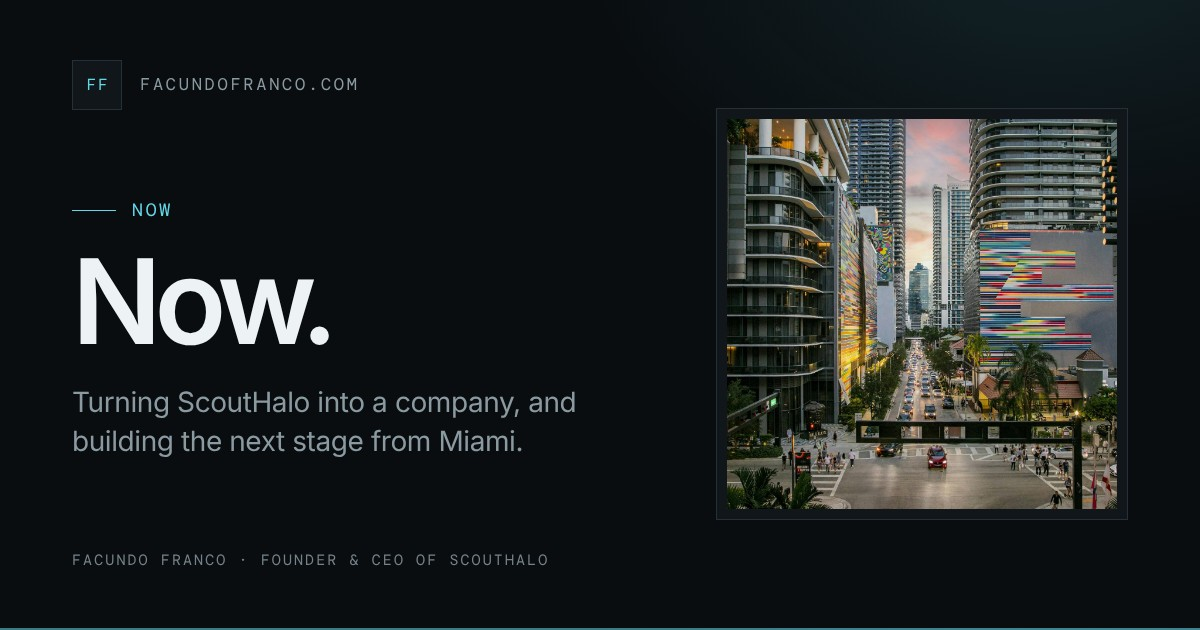
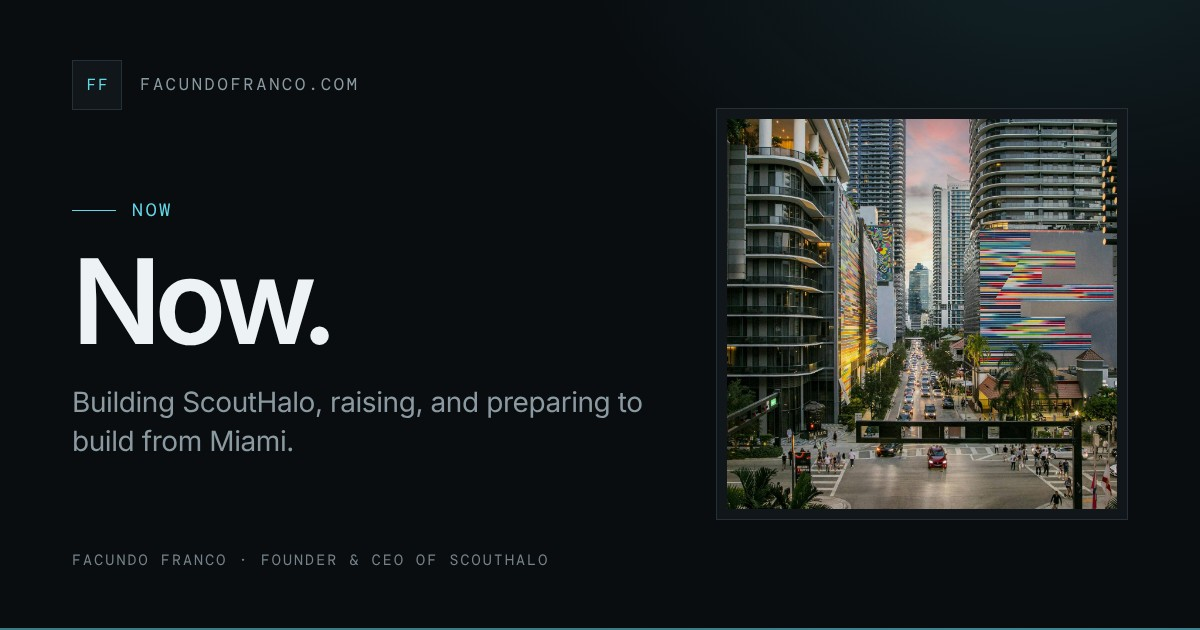
Final audit fixes: tablet timeline, chronology, wording, Now card
- Timeline: two rows of four from 721–1340px so all eight milestones
  are visible; one row above, vertical list on phones
- Miami stop reads as a plan; build period labelled Jun–Aug 2026
- Founder story ch03: rename (May) before the AI approach; ch01 no
  longer echoes ch02's title
- Homepage showcase no longer repeats the hero; About pull quote no
  longer repeats the paragraph before it
- Privacy describes the self-hosted video; Projects → Plans on /now
- Now social card and alt text regenerated
- Homepage sections numbered 01–05; showcase details top-aligned;
  shorter video caption; stacked coordinates; tablet hero sized to content

Claude-Session: https://claude.ai/code/session_01KTQ6Xqh9nfRwcYhg5ntsCz

Changed region(s): [[0.0617, 0.6032, 0.555, 0.7238]]

diff --git a/app/building-scouthalo/page.tsx b/app/building-scouthalo/page.tsx
@@ -61,7 +61,7 @@ const CHRONOLOGY = [
   { when: "Oct 2025", what: "The note", href: "#the-idea" },
   { when: "Mar 2026", what: "ScoutNYC built", href: "#the-first-version" },
   { when: "May 2026", what: "Rebranded ScoutHalo", href: "#all-in" },
-  { when: "Winter 2026", what: "All in", href: "#all-in" },
+  { when: "Jun–Aug 2026", what: "All in", href: "#all-in" },
   { when: "Sep 2026", what: "ScoutHalo, Inc.", href: "#incorporated" },
   { when: "Today", what: "Still building", href: "#today" },
 ] as const;
@@ -126,8 +126,8 @@ export default function StoryPage() {
           few weeks later, I went back to that note and decided to give the idea a shot.
         </p>
         <p>
-          I started small: a landing page, some early experiments, and eventually the first
-          version of what would become ScoutHalo.
+          It began with a landing page, some early experiments, and eventually the first version
+          of what would become ScoutHalo.
         </p>
       </StoryChapter>
 
@@ -176,20 +176,18 @@ export default function StoryPage() {
 
       <StoryChapter
         id="all-in"
-        eyebrow="03 · Winter 2026"
+        eyebrow="03 · Jun–Aug 2026"
         title="Then I went all in."
         lead={
           <>
-            <p>Eventually, I found a better way to build it.</p>
+            <p>
+              In May 2026, I renamed ScoutNYC to ScoutHalo. Around the same time, I found a better
+              way to build it.
+            </p>
             <p>
               Instead of manually building a database of places, I started using AI to understand
               what people were looking for, search for real locations, and evaluate how well those
               places matched their needs.
-            </p>
-            <p>
-              The problem that had made the first version impossible to scale started to look
-              solvable. I realized I could build the product differently, and this time I decided
-              to go all in.
             </p>
           </>
         }
@@ -198,10 +196,14 @@ export default function StoryPage() {
           width: 1500,
           height: 2000,
           alt: "The small room where ScoutHalo was built: a desk with a computer and chair beside a bed, under a window.",
-          caption: "Where I built ScoutHalo — Uruguay, winter 2026.",
+          caption: "Where I built ScoutHalo — Uruguay, Jun–Aug 2026.",
         }}
       >
-        <p>In May 2026, I renamed ScoutNYC to ScoutHalo.</p>
+        <p>
+          The problem that had made the first version impossible to scale started to look
+          solvable. I realized I could build the product differently, and this time I decided to
+          go all in.
+        </p>
         <p>
           I spent most of that winter in Uruguay in one small room, with a bed next to my desk and
           a computer. For about three months, most days started when I woke up and ended when I

diff --git a/styles/globals.css b/styles/globals.css
@@ -734,6 +734,14 @@ button {
   margin-top: 36px;
 }
 
+/* Tablets: the hero sizes to its content instead of a full, mostly empty screen */
+@media (min-width: 721px) and (max-width: 1024px) {
+  .hero {
+    min-height: auto;
+    padding: clamp(64px, 9vw, 96px) 0 clamp(72px, 10vw, 104px);
+  }
+}
+
 /* Image frame — one treatment for every photo and screenshot */
 .portrait-card,
 .post-preview,
@@ -2016,17 +2024,6 @@ button {
   mix-blend-mode: lighten;
 }
 
-.showcase-tagline {
-  margin-top: 16px;
-
-  color: var(--cyan);
-
-  font-family: var(--font-mono), monospace;
-  font-size: 12px;
-  letter-spacing: 0.12em;
-  text-transform: uppercase;
-}
-
 .showcase-lead {
   max-width: 44ch;
   margin-top: 16px;
@@ -2042,7 +2039,8 @@ button {
   display: grid;
   grid-template-columns: clamp(270px, 26vw, 360px) minmax(0, 1fr);
   gap: clamp(40px, 6vw, 96px);
-  align-items: center;
+  /* Details start level with the "Product preview" tag, not floating mid-video */
+  align-items: start;
 
   margin-top: clamp(40px, 5vw, 64px);
 }
@@ -2372,7 +2370,11 @@ button {
   letter-spacing: -0.02em;
 }
 
+/* Latitude over longitude, so neither ever breaks mid-value */
 .journey-place-coords {
+  display: flex;
+  flex-direction: column;
+
   color: var(--subtle);
 
   font-family: var(--font-mono), monospace;
@@ -2435,6 +2437,26 @@ button {
 
 .journey-ctas {
   margin-top: clamp(18px, 2vw, 26px);
+}
+
+/* Tablets and small laptops: eight stops in two rows of four, all visible
+   (one row of eight needs about 1214px of container) */
+@media (min-width: 721px) and (max-width: 1340px) {
+  .journey-track {
+    overflow: visible;
+    padding-bottom: 0;
+  }
+
+  .journey-list {
+    grid-auto-flow: row;
+    grid-template-columns: repeat(4, minmax(0, 1fr));
+    row-gap: clamp(32px, 4vw, 44px);
+  }
+
+  /* Each row's rail ends at its last stop */
+  .journey-stop:nth-child(4n)::before {
+    right: 0;
+  }
 }
 
 /* Phones: a vertical line, thumbnail beside the text */
@@ -2522,8 +2544,6 @@ button {
   }
 
   .journey-place-coords {
-    display: flex;
-    flex-direction: column;
     font-size: 8px;
   }
 }

diff --git a/components/ShowcaseSection.tsx b/components/ShowcaseSection.tsx
@@ -1,6 +1,6 @@
 import Image from "next/image";
 import Link from "next/link";
-import { SCOUTHALO_TAGLINE, SCOUTHALO_URL } from "@/lib/site";
+import { SCOUTHALO_URL } from "@/lib/site";
 import SectionHeader from "./SectionHeader";
 import ShowcaseVideo from "./ShowcaseVideo";
 
@@ -41,7 +41,7 @@ export default function ShowcaseSection() {
     <section className="section showcase" id="building" aria-labelledby="showcase-title">
       <div className="container">
         <SectionHeader
-          eyebrow="02 · What I'm building"
+          eyebrow="01 · What I'm building"
           titleId="showcase-title"
           titleClassName="showcase-title"
           title={
@@ -53,10 +53,9 @@ export default function ShowcaseSection() {
             </>
           }
         >
-          <p className="showcase-tagline">{SCOUTHALO_TAGLINE}</p>
           <p className="showcase-lead">
-            An AI-powered search engine for real-world places. Describe what you need, and
-            ScoutHalo finds real places, explains why each one fits, and helps you decide.
+            Describe what you need, or start from a photo, and ScoutHalo finds real places,
+            explains why each one fits, and helps you decide.
           </p>
         </SectionHeader>
 
@@ -72,7 +71,7 @@ export default function ShowcaseSection() {
               label="ScoutHalo product preview: searching “I'm in New York, I want a good café to work from”, then browsing real cafés with their evidence, and seeing them on a map."
             />
             <figcaption className="showcase-caption">
-              New York · finding a café to work from
+              New York · a café to work from
             </figcaption>
           </figure>
 

diff --git a/lib/journey.ts b/lib/journey.ts
@@ -54,13 +54,13 @@ export const JOURNEY: Milestone[] = [
     id: "scouthalo",
     when: "May 2026",
     title: "ScoutHalo",
-    text: "Rebranding ScoutNYC as ScoutHalo, ahead of the winter spent building it.",
+    text: "Rebranding ScoutNYC as ScoutHalo, ahead of the months spent building it.",
     href: "/building-scouthalo#all-in",
     image: { src: "/images/scouthalo-mark.webp", alt: "The ScoutHalo mark.", contain: true },
   },
   {
     id: "all-in",
-    when: "Winter 2026",
+    when: "Jun–Aug 2026",
     title: "All in",
     text: "About three months in one small room in Uruguay, building the first real version.",
     href: "/building-scouthalo#all-in",
@@ -98,7 +98,7 @@ export const JOURNEY: Milestone[] = [
     id: "miami",
     when: "Next",
     title: "Miami",
-    text: "Relocating to Brickell to build the company and its founding team.",
+    text: "Planning to relocate to Brickell to build the company and its founding team.",
     href: "/now#miami",
     image: {
       src: "/images/brickell-miami.jpg",

diff --git a/app/privacy/page.tsx b/app/privacy/page.tsx
@@ -94,9 +94,9 @@ export default function PrivacyPage() {
             site and protect it from abuse.
           </p>
           <p>
-            Fonts and images are served from this site; nothing is loaded from Google Fonts or
-            other third-party services when you view a page. There are no embedded videos, social
-            widgets, or ads.
+            Fonts, images, and the one video on the homepage are served from this site; nothing
+            is loaded from Google Fonts, YouTube, or other third-party services when you view a
+            page. There are no third-party embeds, social widgets, or ads.
           </p>
           <p>
             Links to ScoutHalo, X, LinkedIn, Instagram, and YouTube take you to those services,

diff --git a/app/about/page.tsx b/app/about/page.tsx
@@ -126,10 +126,8 @@ export default function AboutPage() {
           </p>
           <aside className="profile-pullquote" aria-label="Why ScoutHalo">
             <p>
-              I&apos;ve always wanted to understand the world: its history, its geography, and
-              the places I was lucky enough to experience. In a way, ScoutHalo is an extension of
-              that curiosity, an attempt to make the physical world easier to search and
-              understand.
+              In a way, ScoutHalo is an extension of that curiosity: an attempt to make the
+              physical world easier to search and understand.
             </p>
           </aside>
         </Chapter>

diff --git a/components/NowSection.tsx b/components/NowSection.tsx
@@ -14,7 +14,7 @@ export default function NowSection() {
   return (
     <section className="section section-compact now" id="now" aria-labelledby="now-title">
       <div className="container">
-        <SectionHeader eyebrow="04 · Now" title="Now." titleId="now-title">
+        <SectionHeader eyebrow="03 · Now" title="Now." titleId="now-title">
           <p className="now-updated">Last updated · {NOW_UPDATED}</p>
           <p className="now-lead-text">
             ScoutHalo is live in early access, and ScoutHalo, Inc. is incorporated in Delaware.

diff --git a/components/ContactSection.tsx b/components/ContactSection.tsx
@@ -35,7 +35,7 @@ export default function ContactSection() {
     <section className="section contact" id="contact" aria-labelledby="contact-title">
       <div className="container">
         <SectionHeader
-          eyebrow="06 · Work with me"
+          eyebrow="05 · Work with me"
           title="Work with me."
           titleId="contact-title"
           intro="I'm looking for the people who will help take ScoutHalo to its next stage. If that might be you, write to me directly."

diff --git a/components/TalksSection.tsx b/components/TalksSection.tsx
@@ -11,7 +11,7 @@ export default function TalksSection() {
   return (
     <section className="section talks" id="talks" aria-labelledby="talks-title">
       <div className="container">
-        <SectionHeader eyebrow="05 · Talks" title="Talks." titleId="talks-title" />
+        <SectionHeader eyebrow="04 · Talks" title="Talks." titleId="talks-title" />
         <TalkCard talk={featured} headingLevel={3} />
         {TALKS.length > 1 ? (
           <div className="cta-row">

diff --git a/components/JourneySection.tsx b/components/JourneySection.tsx
@@ -11,7 +11,7 @@ export default function JourneySection() {
     <section className="section journey" id="journey" aria-labelledby="journey-title">
       <div className="container">
         <SectionHeader
-          eyebrow="03 · The journey"
+          eyebrow="02 · The journey"
           title="From a note to a company."
           titleId="journey-title"
           intro="How ScoutHalo came together, in the order it happened. Each step links to the full story."

diff --git a/app/page.tsx b/app/page.tsx
@@ -17,7 +17,7 @@ export const metadata: Metadata = pageMetadata({
   ogType: "profile",
 });
 
-// 01 Introduction · 02 What I'm building · 03 The journey · 04 Now · 05 Talks · 06 Work with me
+// Hero, then 01 What I'm building · 02 The journey · 03 Now · 04 Talks · 05 Work with me
 export default function HomePage() {
   return (
     <main id="main">

diff --git a/app/now/page.tsx b/app/now/page.tsx
@@ -25,7 +25,7 @@ const ROLES = [
   },
   {
     title: "Founding Product Engineer",
-    focus: "The product end to end: search, results, saved places, collections, and projects.",
+    focus: "The product end to end: search, results, saved places, collections, and plans.",
   },
   {
     title: "Founding Data / Location Intelligence Engineer",
